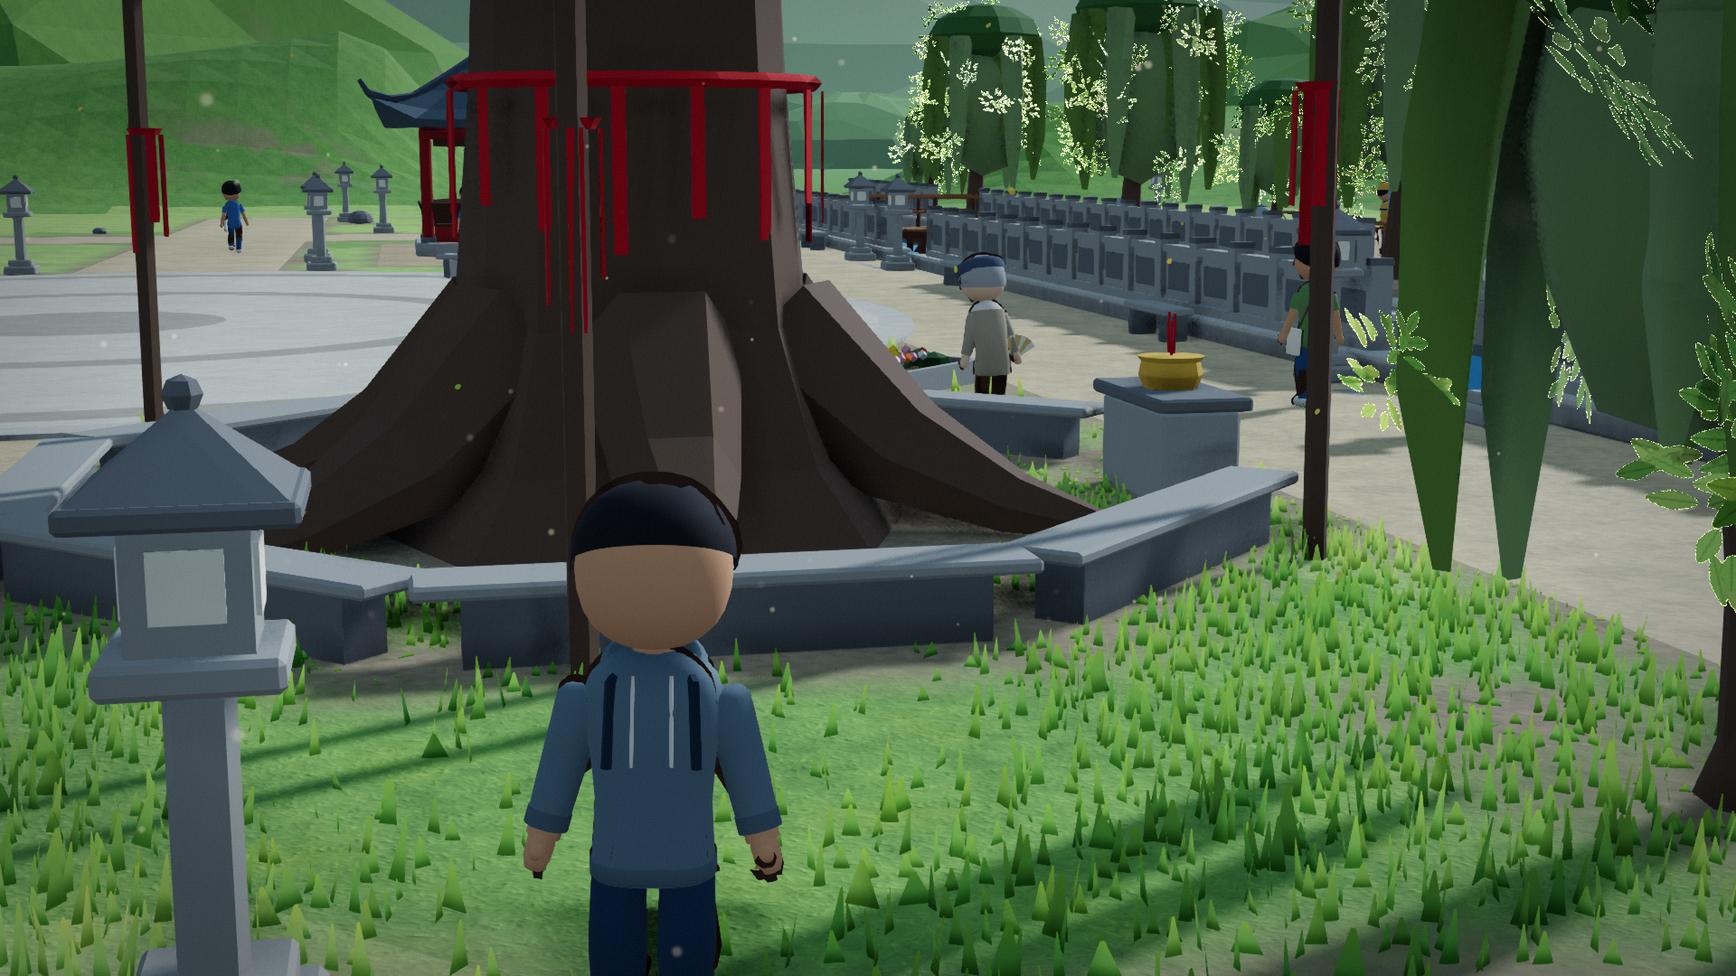
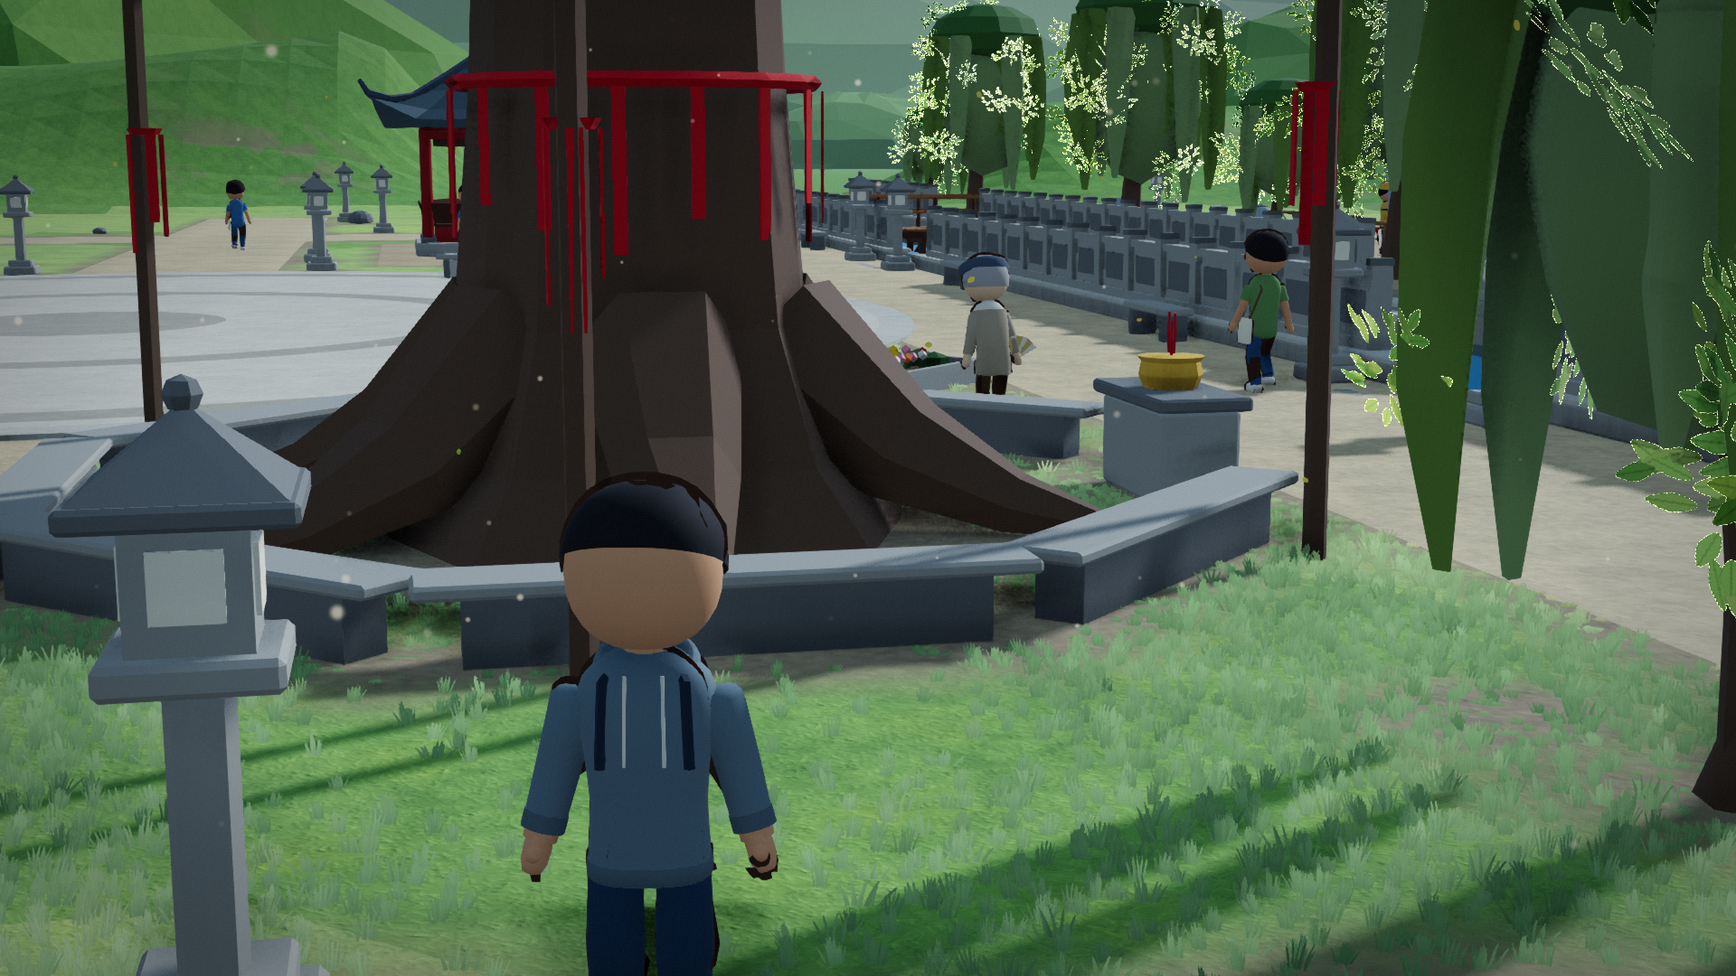
world3d: grass and canopy tuning — tuft cards in place of the single-triangle blades
Each grass instance is now a tuft card (TUFT, tuftTextureData: a 256^2 DataTexture generated at
load, two variants of 6 / 8 thin curved blades with feathered tips, alpha-tested at 0.5, mip
coverage held up in the shader): near 3 crossed quads, far 1 quad turned to the camera, same
texture, same instance counts (200 x 200 a band). Tallest 0.16 m, a random lean up to 0.12 rad,
wind unchanged. Colour: the ground's lawn colour at the root, a yellow-green tip no brighter than
the lawn, saturation capped at 60 % (GRASS_LOOK.root / tip / maxSat). Clumps, bare patches, the
mask, grassDensityAt and the canopy cores kept.

Tests: envlook.test.ts constants (sizes, quads, lean, colour) and the tuft texture (blade count,
coverage, tips). Shots: shots/look/grass-tuning re-taken (SET=env, SET=tiers, 1920x1080, 0
console errors).

diff --git a/packages/world3d/src/envlook.ts b/packages/world3d/src/envlook.ts
@@ -3,8 +3,8 @@
 //   ground    the terrain's grass / path materials take world-projected, generated textures
 //             (grass, packed dirt, a detail normal), dirt worn in along the path edges (a distance
 //             field rasterised from the terrain's own triangles) and in noise patches;
-//   grass     instanced blade cards (2 tris each) on the grass cells round the player, coloured from
-//             the ground under them (dark root, yellow-green tip), in clumps with thin and bare
+//   grass     instanced tuft cards (thin alpha-tested blades; near 3 crossed quads, far 1) on the grass cells round the player, coloured from
+//             the ground under them (its colour at the root, a muted yellow-green tip), in clumps with thin and bare
 //             patches (GRASS_LOOK), swaying in the wind, fading out with distance;
 //   leaves    alpha-cut leaf-cluster cards over every tree canopy (the solid canopy stays, darker, as
 //             the crown's core, and the one that casts: the cards never do, nor do grass or particles),
@@ -37,32 +37,38 @@ export interface EnvDeps {
 export const FIELD = { min: -70, size: 140, n: 512 };
 /**
  * Grass: two toroidal tiles of blades round the player, the LOD bands (near: dense, to 12.5 m;
- * far: an eighth of its density, wider blades, to 30 m, none beyond). Each tile is cut into
+ * far: an eighth of its density, wider cards, to 30 m, none beyond). Each blade instance is a tuft
+ * card (tuftTextureData: thin alpha-tested blades): near `quads` crossed quads, far one quad turned
+ * to the camera; `size`: the card's width and its tallest height (m). Each tile is cut into
  * `chunks` x `chunks` meshes, drawn only when in the camera's frustum and inside the band's fade
  * (grassChunkVisible); lite's far blades take no shadow (a cheaper fragment).
  */
 export const GRASS = {
-  near: { tile: 26, n: 200, fade: [9, 12.5], size: [0.06, 0.14], chunks: 4 },
-  far: { tile: 72, n: 200, fade: [24, 30], size: [0.11, 0.17], chunks: 6 },
+  near: { tile: 26, n: 200, fade: [9, 12.5], size: [0.13, 0.16], chunks: 4, quads: 3 },
+  far: { tile: 72, n: 200, fade: [24, 30], size: [0.26, 0.16], chunks: 6, quads: 1 },
 };
 /**
  * The lawn's look, shared by the blade shader and grassDensityAt (its CPU mirror, for the tests):
  * clumps (macro noise R at `clump.scale` m: a blade stays where its own random is under the
  * density, `floor` .. 1, so thin patches keep `floor` of their blades; the clumps' blades a little
  * taller), bare dirt patches (envBare: the ground shader's dirt patches, the blades gone there) and
- * the blade's colour (a dark base, the lawn's green, a yellow-green tip).
+ * the blade's colour: `root` x the lawn's own colour at the ground (the blades grow out of it), the
+ * lawn's colour up the blade, `tip` (yellow-green, no brighter) at the top, every blade held to
+ * `maxSat` saturation. `lean`: the tuft's random lean (rad, at most).
  */
 export const GRASS_LOOK = {
   clump: { scale: 7.3, offset: 0.61, lo: 0.34, hi: 0.62, floor: 0.12 },
   bare: { patch: [0.6, 0.72], detail: [0.52, 0.62], gone: [0.12, 0.4] },
-  root: [0.34, 0.4, 0.3],
-  tip: [1.34, 1.2, 0.66],
+  root: [0.86, 0.87, 0.84],
+  tip: [1.08, 1.0, 0.7],
+  maxSat: 0.6,
+  lean: 0.12,
 };
 /** lite's far band fade (m): as full's (18-24 m thinned the lawn visibly at the phone's top edge, for little: the far blades are cheap) */
 export const LITE_FAR_FADE = [24, 30];
 
 /** The grass bands a tier draws (lite: the far band nearer). */
-export function grassBands(lite: boolean): { key: "near" | "far"; tile: number; n: number; fade: number[]; size: number[]; chunks: number; shadow: boolean }[] {
+export function grassBands(lite: boolean): { key: "near" | "far"; tile: number; n: number; fade: number[]; size: number[]; chunks: number; quads: number; shadow: boolean }[] {
   return [
     { key: "near", ...GRASS.near, shadow: true },
     { key: "far", ...GRASS.far, ...(lite ? { fade: LITE_FAR_FADE } : {}), shadow: !lite },
@@ -346,6 +352,66 @@ function leafTextureData(): EnvArrays {
       data[o + 2] = Math.round(Math.min(1, col[2]) * 255);
       data[o + 3] = Math.round(best * 255);
     }
+  return { data };
+}
+
+/** The grass tuft card's texture (tuftTextureData): 256^2, linear, clamped; row 0 is the card's foot. */
+function tuftTexture(cache?: EnvCache): THREE.DataTexture {
+  const data = (cache ? cache.memo("tuft", tuftTextureData) : tuftTextureData()).data as Uint8Array;
+  const t = dataTexture(data, TUFT.n, { repeat: false });
+  t.flipY = false;
+  return t;
+}
+
+/** The tuft card: two variants side by side (u 0-0.5, 0.5-1), each `blades` thin blades from the foot, fanning, curved, tapering to a feathered tip. */
+export const TUFT = { n: 256, blades: [6, 8], alphaTest: 0.5 };
+
+/**
+ * The tuft card's texture: RGB a grey shade per blade (a lighter midrib; x 1/0.9 in the shader, mean
+ * ~1), A its coverage (anti-aliased edges, the tip fading out). Transparent texels keep the grey (no
+ * dark fringe in the mips).
+ */
+export function tuftTextureData(): EnvArrays {
+  const N = TUFT.n;
+  const H = N / 2; // a variant's width (px)
+  const rnd = makeRng(31);
+  const data = new Uint8Array(N * N * 4);
+  for (let q = 0; q < N * N; q++) {
+    data[q * 4] = data[q * 4 + 1] = data[q * 4 + 2] = 230;
+    data[q * 4 + 3] = 0;
+  }
+  const alpha = new Float32Array(N * N);
+  for (let variant = 0; variant < 2; variant++) {
+    const count = TUFT.blades[variant];
+    for (let b = 0; b < count; b++) {
+      // the foot near the middle, the blade leaning out the way it stands (a fan), a little curve
+      const u0 = 0.5 + (b / (count - 1) - 0.5) * 0.36 + (rnd() - 0.5) * 0.05;
+      const lean = (u0 - 0.5) * (0.3 + rnd() * 0.3) + (rnd() - 0.5) * 0.08;
+      const curve = (rnd() - 0.5) * 0.1 + Math.sign(lean) * 0.04;
+      const top = 0.55 + rnd() * 0.42;
+      const half = 2.6 + rnd() * 1.6; // half-width at the foot (px)
+      const tone = 0.78 + rnd() * 0.22;
+      for (let y = 0; y < Math.ceil(top * N); y++) {
+        const v = (y + 0.5) / N;
+        const k = v / top; // 0 foot .. 1 tip
+        if (k >= 1) break;
+        const cu = (u0 + lean * k + curve * k * k) * H;
+        const hw = half * Math.pow(1 - k, 0.75);
+        const fade = 1 - smooth(0.78, 1, k); // the feathered tip
+        for (let x = Math.max(0, Math.floor(cu - hw - 2)); x <= Math.min(H - 1, Math.ceil(cu + hw + 2)); x++) {
+          const d = Math.abs(x + 0.5 - cu);
+          const a = Math.max(0, Math.min(1, hw - d + 0.5)) * fade;
+          const q = y * N + variant * H + x;
+          if (a <= alpha[q]) continue;
+          alpha[q] = a;
+          const rib = d < hw * 0.3 ? 1.06 : 0.94 + 0.06 * (1 - d / Math.max(hw, 0.5));
+          const g = Math.round(Math.min(1, tone * rib) * 255);
+          data[q * 4] = data[q * 4 + 1] = data[q * 4 + 2] = g;
+          data[q * 4 + 3] = Math.round(a * 255);
+        }
+      }
+    }
+  }
   return { data };
 }
 
@@ -797,12 +863,32 @@ ${BARE_GLSL}
   if (town && want.has("grass")) {
     const t = textures();
     const f = getField();
-    const grassUniforms = { ...U, envField: { value: f.tex }, envAlbedo: { value: f.albedo }, envGrassTex: { value: t.grass }, envMacro: { value: t.macro } };
+    const grassUniforms = { ...U, envField: { value: f.tex }, envAlbedo: { value: f.albedo }, envGrassTex: { value: t.grass }, envMacro: { value: t.macro }, envTuft: { value: tuftTexture(deps.cache) } };
     const rnd = makeRng(99);
-    // the blade shape, shared by every chunk: a tapered card, 4 vertices, 2 triangles; y = the height fraction
-    const bladePos = new THREE.Float32BufferAttribute([-0.5, 0, 0, 0.5, 0, 0, 0.06, 1, 0, -0.06, 1, 0], 3);
-    const bladeNormal = new THREE.Float32BufferAttribute([0, 1, 0, 0, 1, 0, 0, 1, 0, 0, 1, 0], 3);
-    const bladeIndex = new THREE.Uint16BufferAttribute([0, 1, 2, 0, 2, 3], 1);
+    // the tuft card, shared by a band's chunks: `quads` quads crossed round the vertical (60 degrees
+    // apart for 3), each 4 vertices, 2 triangles; y = the height fraction, uv the card's
+    const cardOf = (quads: number) => {
+      const pos: number[] = [];
+      const uv: number[] = [];
+      const index: number[] = [];
+      for (let k = 0; k < quads; k++) {
+        const a = (k * Math.PI) / quads;
+        const c = Math.cos(a);
+        const s = Math.sin(a);
+        const o = k * 4;
+        for (const [x, y] of [[-0.5, 0], [0.5, 0], [0.5, 1], [-0.5, 1]]) {
+          pos.push(c * x, y, s * x);
+          uv.push(x + 0.5, y);
+        }
+        index.push(o, o + 1, o + 2, o, o + 2, o + 3);
+      }
+      return {
+        position: new THREE.Float32BufferAttribute(pos, 3),
+        normal: new THREE.Float32BufferAttribute(pos.map((_, i) => (i % 3 === 1 ? 1 : 0)), 3),
+        uv: new THREE.Float32BufferAttribute(uv, 2),
+        index: new THREE.Uint16BufferAttribute(index, 1),
+      };
+    };
     // the grass cells' height range: the chunks' boxes (+ the tallest blade)
     let ymin = Infinity;
     let ymax = -Infinity;
@@ -824,7 +910,8 @@ ${BARE_GLSL}
           blades[k * 4 + 2] = rnd() * Math.PI * 2;
           blades[k * 4 + 3] = rnd();
         }
-      const m = new THREE.MeshLambertMaterial({ color: 0xffffff, side: THREE.DoubleSide, name: `env_grass_${key}` });
+      const card = cardOf(spec.quads);
+      const m = new THREE.MeshLambertMaterial({ color: 0xffffff, side: THREE.DoubleSide, alphaTest: TUFT.alphaTest, name: `env_grass_${key}` });
       m.onBeforeCompile = (s) => {
         Object.assign(s.uniforms, grassUniforms, {
           envTile: { value: spec.tile },
@@ -841,6 +928,7 @@ uniform vec2 envCenter, envFade, envSize, envFieldMin, envWind;
 uniform sampler2D envField, envAlbedo, envGrassTex, envMacro;
 varying vec3 vBlade;
 varying vec2 vBladeY;
+varying vec2 vTuftUv;
 ${BARE_GLSL}
 `,
           "before",
@@ -864,33 +952,58 @@ ${BARE_GLSL}
   float keep = fld.r * inside * step(fract(r * 13.37), dens) * (1.0 - smoothstep(${f3(GRASS_LOOK.bare.gone[0])}, ${f3(GRASS_LOOK.bare.gone[1])}, bare));
   keep *= smoothstep(0.12, 0.7, fld.g + r * 0.35) * (1.0 - smoothstep(envFade.x, envFade.y, bd + r * 1.5));
   keep = keep > 0.08 ? keep : 0.0;
-  float h = envSize.y * (0.55 + 0.9 * r) * mix(0.75, 1.15, dens) * keep;
-  float w = envSize.x * (0.7 + 0.6 * fract(r * 7.13)) * step(0.001, keep);
-  float ca = cos(aBlade.z), sa = sin(aBlade.z);
+  float h = envSize.y * (0.62 + 0.38 * r) * mix(0.8, 1.0, dens) * keep;
+  float w = envSize.x * (0.8 + 0.4 * fract(r * 7.13)) * step(0.001, keep);
+${spec.quads === 1 ? `
+  // one card turned to the camera (about the vertical), a little off it
+  vec2 envTo = cameraPosition.xz - bp;
+  float envA = atan(envTo.y, envTo.x) + 1.5708 + (fract(r * 3.1) - 0.5) * 0.5;
+  float ca = cos(envA), sa = sin(envA);` : `
+  float ca = cos(aBlade.z), sa = sin(aBlade.z);`}
   float bend = position.y * position.y;
   float t = envTime;
   float gust = textureLod(envMacro, bp / 29.0 + vec2(t * 0.031, t * 0.017), 0.0).b;
   float sway = sin(t * 1.8 + bp.x * 0.41 + bp.y * 0.27 + r * 6.2832) * 0.3 + (gust - 0.45) * 1.6;
-  vec3 transformed = vec3(bp.x + ca * position.x * w, fld.b + position.y * h, bp.y + sa * position.x * w);
+  // the card's quads turned by the tuft's angle; the tuft leans a few degrees its own way (GRASS_LOOK.lean)
+  vec2 envXZ = vec2(ca * position.x - sa * position.z, sa * position.x + ca * position.z) * w;
+  vec2 envLean = (vec2(fract(r * 17.3), fract(r * 23.1)) - 0.5) * ${f3(2 * GRASS_LOOK.lean)};
+  vec3 transformed = vec3(bp.x + envXZ.x, fld.b + position.y * h, bp.y + envXZ.y);
+  transformed.xz += envLean * position.y * h;
   transformed.xz += (envWind * sway + vec2(-sa, ca) * (r - 0.5) * 0.8) * bend * h * 0.5;
   vec3 alb = textureLod(envAlbedo, fuv, 0.0).rgb;
   vec3 gt = textureLod(envGrassTex, bp / 2.3, 0.0).rgb * 2.0;
   float tone = textureLod(envMacro, bp / 41.0, 0.0).g;
-  // the lawn's own colour, a little hue and brightness of its own per blade; the base-to-tip ramp in the fragment
-  float hv = fract(r * 5.31);
-  vBlade = alb * gt * mix(vec3(0.84, 0.88, 0.86), vec3(1.14, 1.1, 0.88), tone) * mix(vec3(0.9, 1.05, 0.86), vec3(1.07, 1.0, 0.78), hv) * (0.92 + 0.2 * fract(r * 3.7));
+  // the ground shader's lawn colour here (material x grass texture x macro tone: the blades grow out
+  // of it), a little brightness of its own per tuft; the root-to-tip ramp in the fragment
+  vBlade = alb * gt * mix(vec3(0.84, 0.88, 0.86), vec3(1.14, 1.1, 0.88), tone) * (0.94 + 0.12 * fract(r * 3.7));
   vBladeY = vec2(position.y, 0.45 + 0.55 * fract(r * 9.13));
+  // a variant (u 0-0.5 / 0.5-1), mirrored or not
+  float envU = fract(r * 41.7) < 0.5 ? uv.x : 1.0 - uv.x;
+  vTuftUv = vec2(envU * 0.5 + step(0.5, fract(r * 29.7)) * 0.5, uv.y);
 `,
           "replace",
         );
-        s.fragmentShader = inject(s.fragmentShader, "void main() {", "varying vec3 vBlade;\nvarying vec2 vBladeY;\n", "before");
+        s.fragmentShader = inject(s.fragmentShader, "void main() {", "varying vec3 vBlade;\nvarying vec2 vBladeY;\nvarying vec2 vTuftUv;\nuniform sampler2D envTuft;\n", "before");
         s.fragmentShader = inject(
           s.fragmentShader,
           "#include <color_fragment>",
           /* glsl */ `
-  // dark at the root, the lawn's green up the blade, yellow-green at the tip (each blade its own share of it)
-  vec3 envBladeC = vBlade * mix(${v3(GRASS_LOOK.root)}, vec3(1.0), smoothstep(0.0, 0.55, vBladeY.x));
-  envBladeC = mix(envBladeC, vBlade * ${v3(GRASS_LOOK.tip)}, smoothstep(0.55, 1.0, vBladeY.x) * vBladeY.y);
+  // the tuft's blades (alpha-tested: TUFT.alphaTest); the mips' coverage held up so the far
+  // tufts don't thin out as their alpha averages down
+  vec4 envT = texture2D(envTuft, vTuftUv);
+  vec2 envTs = vTuftUv * ${TUFT.n.toFixed(1)};
+  float envLod = max(0.0, 0.5 * log2(max(dot(dFdx(envTs), dFdx(envTs)), dot(dFdy(envTs), dFdy(envTs)))));
+  diffuseColor.a = envT.a * (1.0 + envLod * 0.35);
+  // the ground's colour at the root, the lawn's up the blade, yellow-green at the tip (each tuft its own share), no more than maxSat saturated
+  vec3 envBladeC = vBlade * mix(${v3(GRASS_LOOK.root)}, vec3(1.0), smoothstep(0.0, 0.5, vBladeY.x));
+  envBladeC = mix(envBladeC, vBlade * ${v3(GRASS_LOOK.tip)}, smoothstep(0.5, 1.0, vBladeY.x) * vBladeY.y);
+  envBladeC *= envT.rgb / 0.9;
+  {
+    float mx = max(envBladeC.r, max(envBladeC.g, envBladeC.b));
+    float mn = min(envBladeC.r, min(envBladeC.g, envBladeC.b));
+    float sat = (mx - mn) / max(mx, 1e-4);
+    if (sat > ${f3(GRASS_LOOK.maxSat)}) envBladeC = mx - (mx - envBladeC) * (${f3(GRASS_LOOK.maxSat)} / sat);
+  }
   diffuseColor.rgb *= envBladeC;`,
         );
         // a blade is lit as the ground under it (its normal is up on both faces)
@@ -916,9 +1029,10 @@ ${BARE_GLSL}
         const data = new Float32Array(ks.length * 4);
         ks.forEach((k, i) => data.set(blades.subarray(k * 4, k * 4 + 4), i * 4));
         const geo = new THREE.InstancedBufferGeometry();
-        geo.setAttribute("position", bladePos);
-        geo.setAttribute("normal", bladeNormal);
-        geo.setIndex(bladeIndex);
+        geo.setAttribute("position", card.position);
+        geo.setAttribute("normal", card.normal);
+        geo.setAttribute("uv", card.uv);
+        geo.setIndex(card.index);
         geo.setAttribute("aBlade", new THREE.InstancedBufferAttribute(data, 4));
         geo.userData.blades = ks.length;
         geo.instanceCount = bladeCount(ks.length, deps.grassDensity ?? 1);

diff --git a/packages/world3d/test/envlook.test.ts b/packages/world3d/test/envlook.test.ts
@@ -2,22 +2,65 @@
 // The scene-level checks (no blades on the street or a footprint, a core in every tree) are in
 // world.test.ts "real look environment"; the LOD bands and chunks in perf.test.ts "grass LOD".
 import { describe, expect, it } from "vitest";
-import { CANOPY_CORE, FIELD, GRASS, GRASS_LOOK, grassDensityAt, grassMacro } from "../src/envlook";
+import { CANOPY_CORE, FIELD, GRASS, GRASS_LOOK, grassDensityAt, grassMacro, TUFT, tuftTextureData } from "../src/envlook";
 
 describe("the lawn (envlook.ts GRASS, GRASS_LOOK)", () => {
-  it("short blades: near 0.14 m, far 0.17 m tall at the size's top (half the first pass's), at most 200 x 200 blades a band", () => {
-    expect(GRASS.near.size).toEqual([0.06, 0.14]);
-    expect(GRASS.far.size).toEqual([0.11, 0.17]);
-    for (const b of [GRASS.near, GRASS.far]) expect(b.n).toBeLessThanOrEqual(200);
+  it("tuft cards: near 3 crossed quads, far 1 (turned to the camera), the tallest 0.16 m, at most 200 x 200 tufts a band", () => {
+    expect(GRASS.near.size).toEqual([0.13, 0.16]);
+    expect(GRASS.far.size).toEqual([0.26, 0.16]);
+    expect([GRASS.near.quads, GRASS.far.quads]).toEqual([3, 1]);
+    for (const b of [GRASS.near, GRASS.far]) {
+      expect(b.n).toBeLessThanOrEqual(200);
+      expect(b.size[1]).toBeLessThanOrEqual(0.16);
+    }
+    expect(GRASS_LOOK.lean).toBeLessThanOrEqual(0.2); // a few degrees
   });
 
-  it("a dark root and a yellow-green tip (more red, less blue than the lawn's green); thin patches keep a floor of their blades", () => {
-    for (const c of GRASS_LOOK.root) expect(c).toBeLessThan(0.5);
+  it("the colour: the root near the ground's own, a yellow-green tip no brighter than the lawn (luminance <= 1), at most 60 % saturation", () => {
+    for (const c of GRASS_LOOK.root) {
+      expect(c).toBeGreaterThan(0.8);
+      expect(c).toBeLessThanOrEqual(1);
+    }
     const [r, g, b] = GRASS_LOOK.tip;
-    expect(r).toBeGreaterThan(g);
-    expect(b).toBeLessThan(1);
+    expect(r).toBeGreaterThan(g); // toward yellow
+    expect(b).toBeLessThan(g);
+    expect(0.2126 * r + 0.7152 * g + 0.0722 * b).toBeLessThanOrEqual(1);
+    expect(GRASS_LOOK.maxSat).toBeLessThanOrEqual(0.6);
     expect(GRASS_LOOK.clump.floor).toBeGreaterThan(0);
     expect(GRASS_LOOK.clump.floor).toBeLessThan(0.3);
+  });
+
+  it("the tuft texture: 256^2, two variants of 5-8 thin blades each, alpha-tested cover of a sliver of the card, tips thinning out", () => {
+    const d = tuftTextureData().data as Uint8Array;
+    const N = TUFT.n;
+    expect(N).toBeLessThanOrEqual(512);
+    expect(d.length).toBe(N * N * 4);
+    for (const n of TUFT.blades) {
+      expect(n).toBeGreaterThanOrEqual(5);
+      expect(n).toBeLessThanOrEqual(8);
+    }
+    const on = (x: number, y: number) => d[(y * N + x) * 4 + 3] >= TUFT.alphaTest * 255;
+    let cover = 0;
+    for (let q = 0; q < N * N; q++) if (d[q * 4 + 3] >= TUFT.alphaTest * 255) cover++;
+    expect(cover / (N * N)).toBeGreaterThan(0.03);
+    expect(cover / (N * N)).toBeLessThan(0.3); // thin blades, mostly air
+    // each variant: at a third of the height, 4+ separate blades across it
+    for (const v of [0, 1]) {
+      let best = 0;
+      for (let y = Math.floor(N * 0.25); y < N * 0.45; y++) {
+        let runs = 0;
+        for (let x = 0; x < N / 2; x++) if (on(v * (N / 2) + x, y) && (x === 0 || !on(v * (N / 2) + x - 1, y))) runs++;
+        best = Math.max(best, runs);
+      }
+      expect(best, `variant ${v}`).toBeGreaterThanOrEqual(4);
+    }
+    // narrower toward the top: the covered texels in the top quarter well under the bottom quarter's
+    const band = (y0: number, y1: number) => {
+      let c = 0;
+      for (let y = y0; y < y1; y++) for (let x = 0; x < N; x++) if (on(x, y)) c++;
+      return c;
+    };
+    expect(band(N * 0.75, N)).toBeLessThan(band(0, N * 0.25) * 0.3);
   });
 
   it("grassDensityAt: 0 off the lawn's mask; on a full lawn, dense clumps, thin patches and some bare ground", () => {

diff --git a/packages/world3d/README.md b/packages/world3d/README.md
@@ -937,12 +937,16 @@ Layers (`look.ts ENV_LAYERS`):
   `grassBands`): near 26 m / 40k (dense, fade 9-12.5 m), far 72 m / 40k (an eighth of the density,
   fade 24-30 m, none beyond; unshadowed on Lite), positioned, coloured (ground colour x
   grass texture) and swayed in the vertex shader from the same field; none on path, pavement,
-  footprints, benches, roots. Short blades (near ~0.06-0.23 m, far ~0.07-0.28 m, about half the first pass's: `GRASS` sizes) in
-  clumps (`GRASS_LOOK.clump`: macro noise at 7.3 m; thin patches keep 12 % of their blades, the
-  clumps' blades a little taller), gone on the bare dirt patches the ground shader draws (`envBare`,
-  the same noise), a dark root, a yellow-green tip and a little hue per blade (`GRASS_LOOK.root` /
-  `tip`). `grassDensityAt` mirrors the shader's density on the CPU (the tests: 0 on the street and
-  every footprint). Each tile is cut into chunks (near 4x4, far 6x6, 52 meshes), each
+  footprints, benches, roots. Each blade instance is a tuft card (`TUFT`, `tuftTextureData`: a
+  256^2 texture generated at load, two variants of 6 / 8 thin curved blades with feathered tips,
+  alpha-tested, its mips' coverage held up in the shader): near 3 crossed quads (6 triangles), far
+  1 quad turned to the camera, both from the same texture; the tallest 0.16 m, each leaning up to
+  0.12 rad its own way. In clumps (`GRASS_LOOK.clump`: macro noise at 7.3 m; thin patches keep 12 %
+  of their tufts), gone on the bare dirt patches the ground shader draws (`envBare`, the same
+  noise). The colour starts at the ground's own lawn colour at the root (the blades grow out of
+  it), a yellow-green tip no brighter than the lawn, every blade held under 60 % saturation
+  (`GRASS_LOOK.root` / `tip` / `maxSat`). `grassDensityAt` mirrors the shader's density on the CPU
+  (the tests: 0 on the street and every footprint). Each tile is cut into chunks (near 4x4, far 6x6, 52 meshes), each
   drawn only when it is in the camera's frustum and within its band's reach of the player
   (`grassChunkVisible`, `wrapIntervals`: where a chunk lands as the tile wraps round the player);
   at the noodle shop ~27 of 52 chunks draw, ~51k of 80k blades. Grass never casts.
@@ -1314,8 +1318,8 @@ that role said last).
   see-through (segment/AABB hits and exclusions, eased whole-root fades and texture uploads, the
   shader patch against three's toon shader, per-vertex ids through mergeStatic, and the real town's
   spawn/tree and never-faded-ground behavior with draw calls unchanged).
-- `test/envlook.test.ts`: the lawn's and the canopy core's constants (`GRASS` sizes,
-  `GRASS_LOOK`, `CANOPY_CORE`) and `grassDensityAt` (0 off the mask; clumps, thin and bare patches
+- `test/envlook.test.ts`: the lawn's and the canopy core's constants (`GRASS` sizes and quads,
+  `GRASS_LOOK`, `CANOPY_CORE`), the tuft texture (blades, coverage, tips) and `grassDensityAt` (0 off the mask; clumps, thin and bare patches
   on it); the scene-level checks (no blades on the street or any footprint, a core in every tree)
   are in world.test.ts's real look environment test.
 - `test/perf.test.ts`: the performance pass: each tier's render budget and its URL overrides, the
